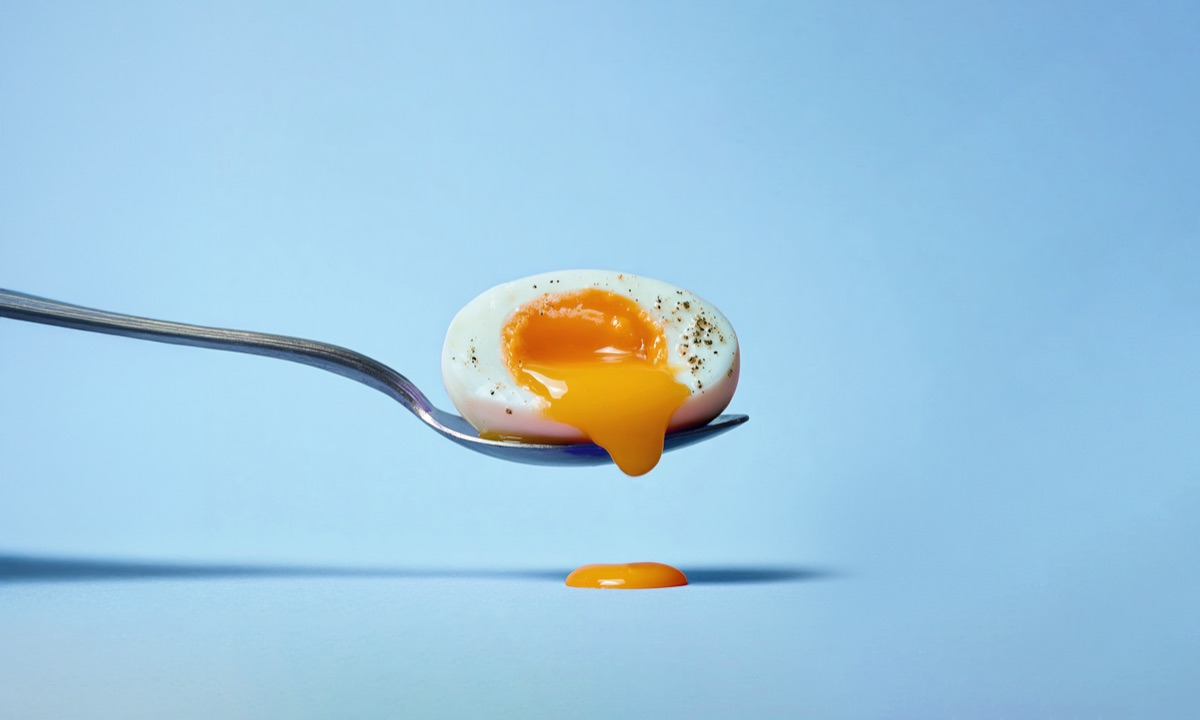
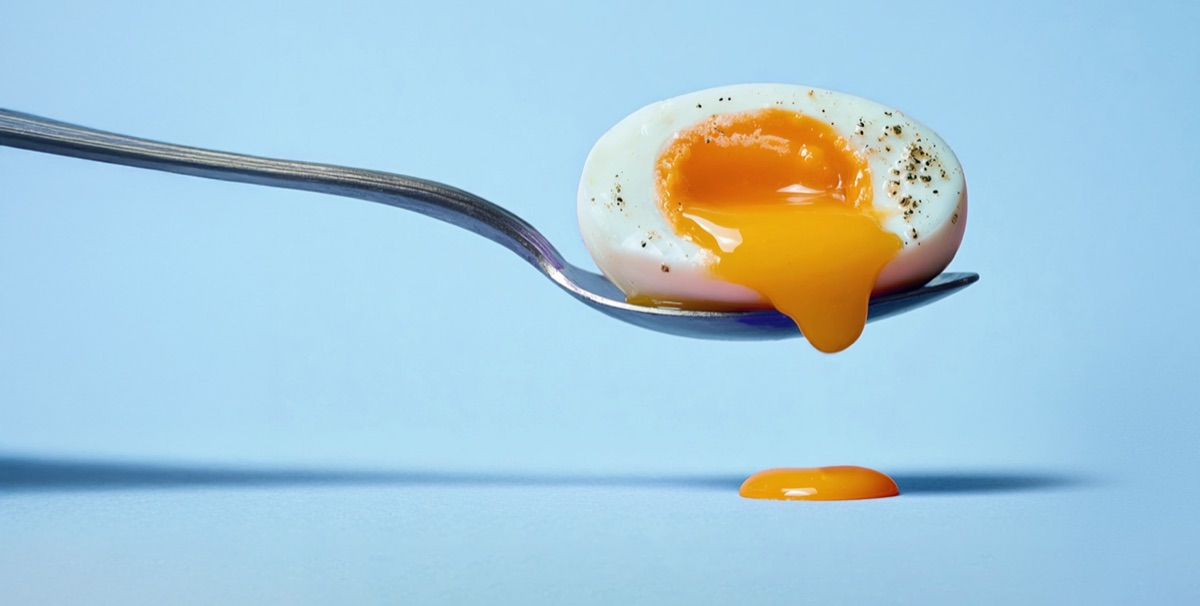
Use the wider Jammy photo and drop the zoom it no longer needs
Swaps in the wider crop (1.98 vs 1.67 aspect). The egg now begins at ~49% of
the frame rather than 42%, so it clears the 45.2% copy column on its own.

That makes the design's 143.44% background zoom counterproductive -- it existed
to push the egg past the copy on the tighter crop, and applied to this one it
magnified the egg until it ran off the right edge. Sizing is plain cover
anchored right, which keeps the whole egg and the falling drip in frame.

The source PNG carried a 1px white frame (7px along the bottom) that would have
shown as a hairline against the blue band; trimmed before re-encoding. 1.1MB PNG
-> 175KB JPEG, with a 1200px variant behind srcset.

Verified zero white pixels in the tear zone at 1440/834/390px, and 8/8 CTA
checks still pass.

diff --git a/styles/globals.css b/styles/globals.css
@@ -563,13 +563,17 @@
     aspect-ratio: 1435 / 806;
     display: block;
   }
+  /* The design's 143.44% zoom existed to push the egg clear of the copy on the
+     older, tighter crop. This photograph already places the egg at ~49% with
+     open blue to its left, so plain cover keeps the whole egg and drip in frame
+     without magnifying it. */
   .jammy-cta__photo {
     position: absolute;
     inset: 0;
     height: auto;
     background-color: transparent;
-    background-position: 0.06% 88%;
-    background-size: 143.44% 153.37%;
+    background-position: center right;
+    background-size: cover;
   }
   .jammy-cta__content {
     position: static;
